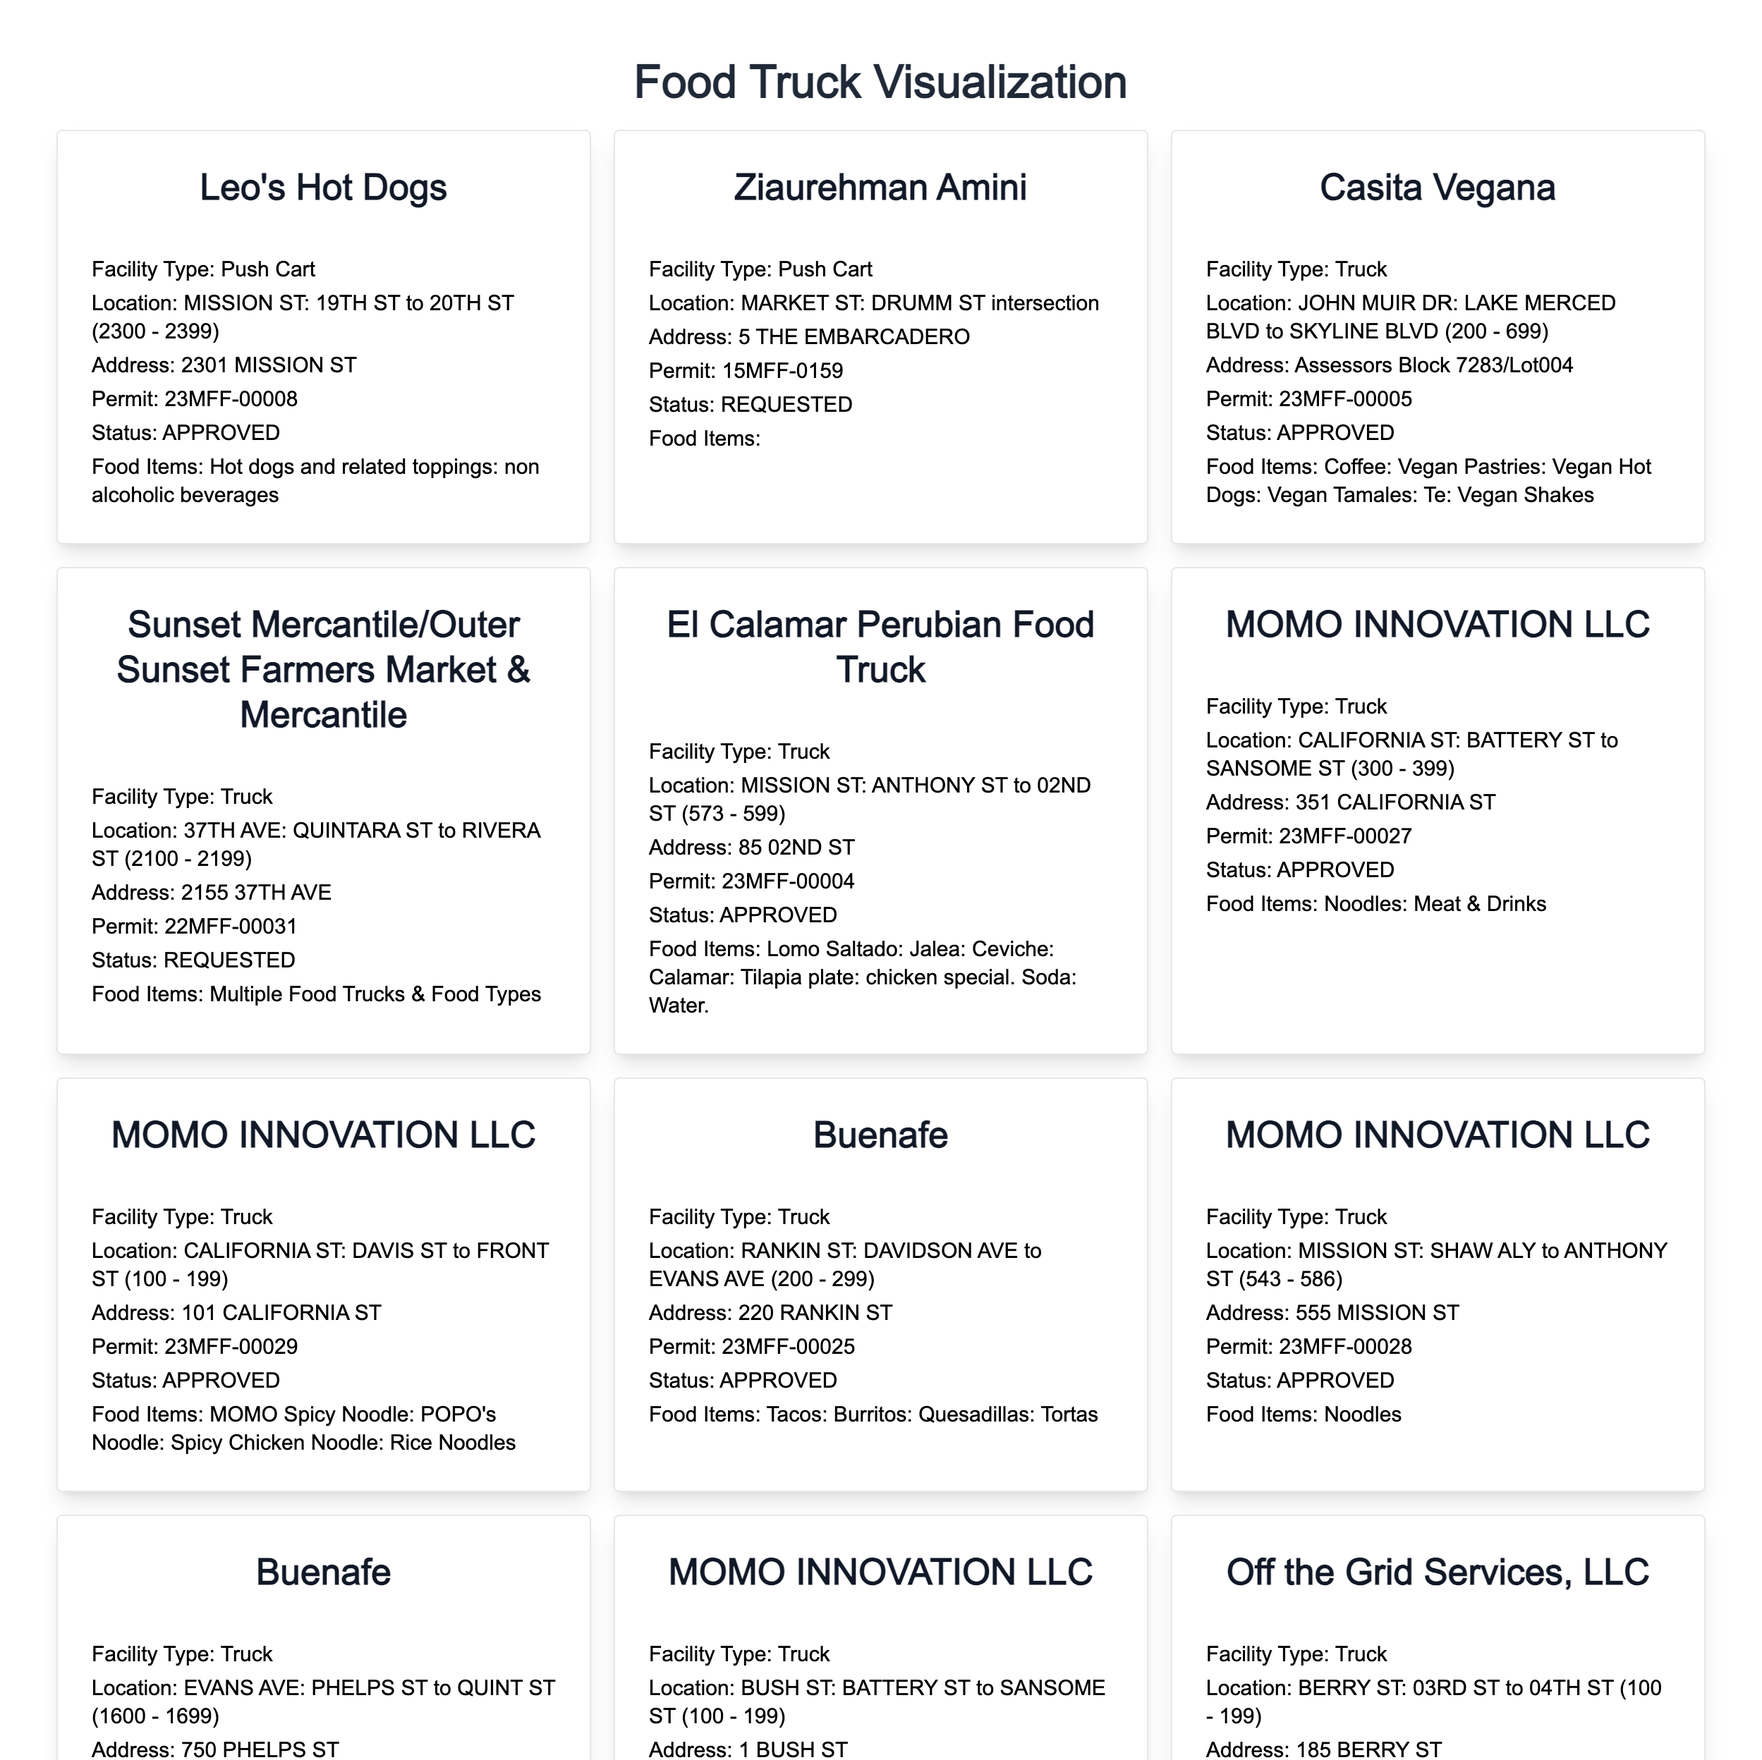
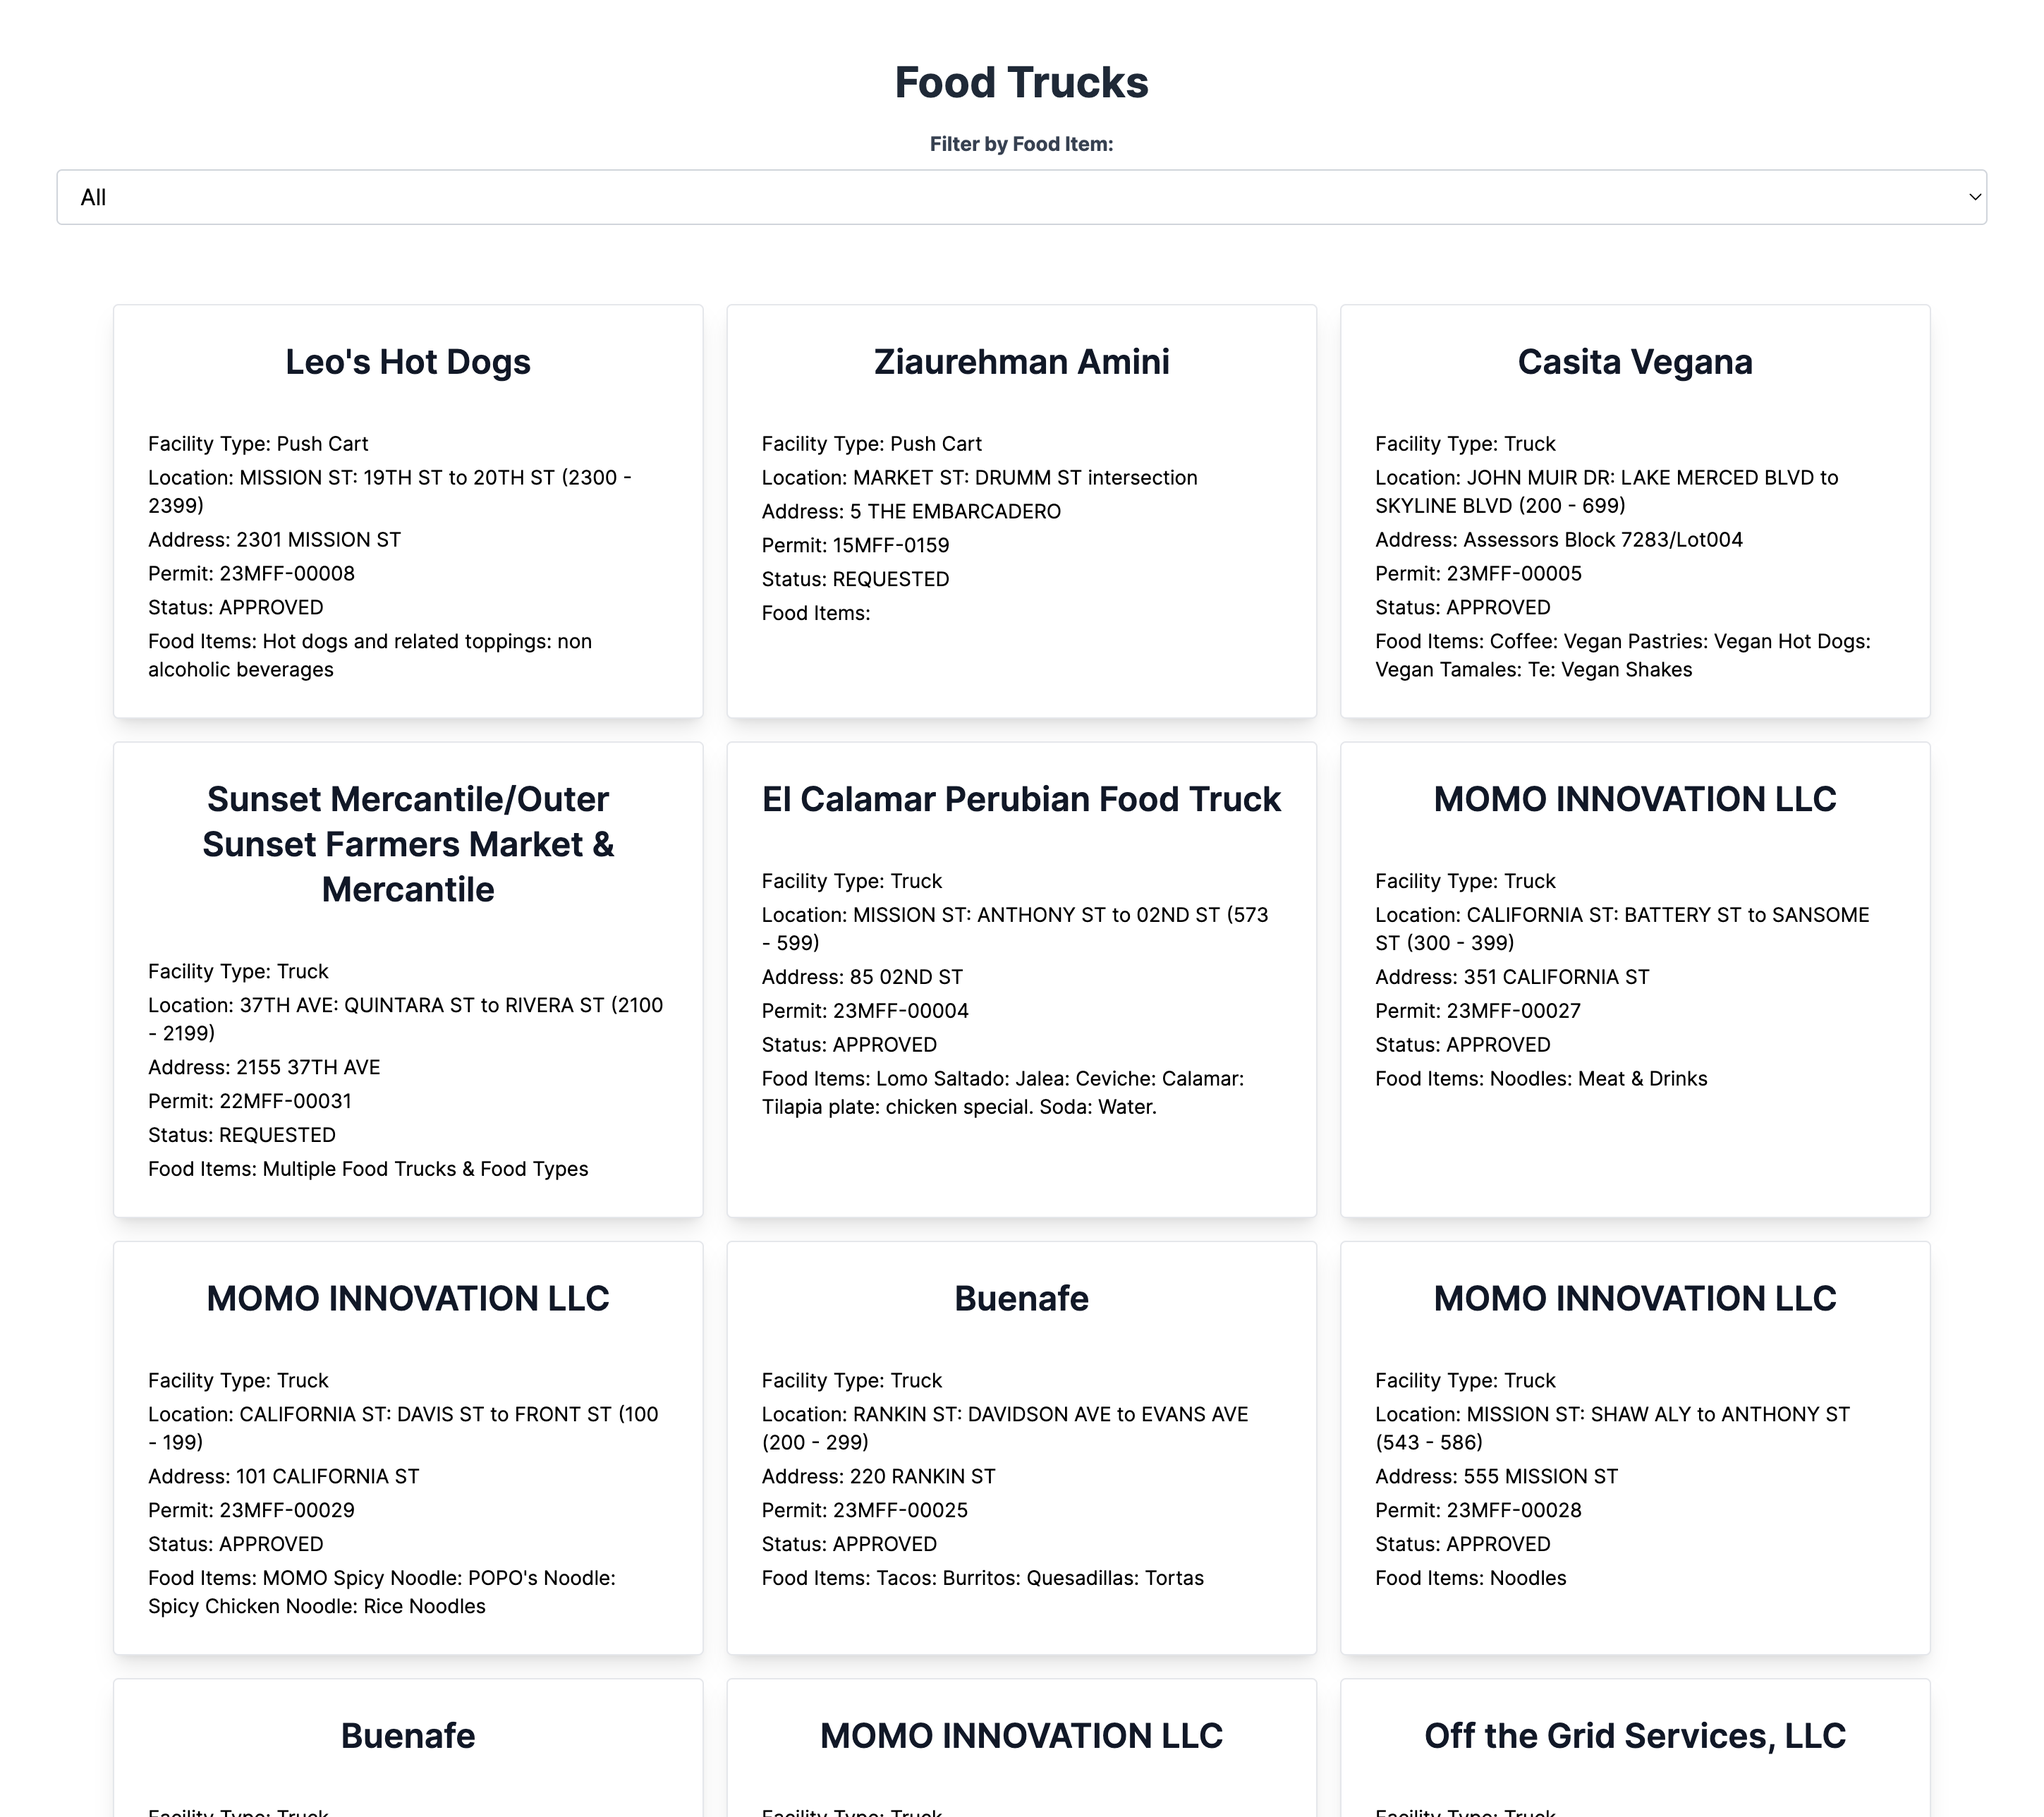
updating README.md

diff --git a/README.md b/README.md
@@ -21,4 +21,4 @@ port is at `localhost:3000`
 
 - [] Randomize 3 lunch ideas every day, easier for the team to pick from.
 - [] Highlight the randomize ideas, adding maybe borders to stand out from the rest.
-- [] Adding filters for types of lunch.(e.g. tacos or burgers)
+- [x] Adding filters for types of lunch.(e.g. tacos or burgers)
